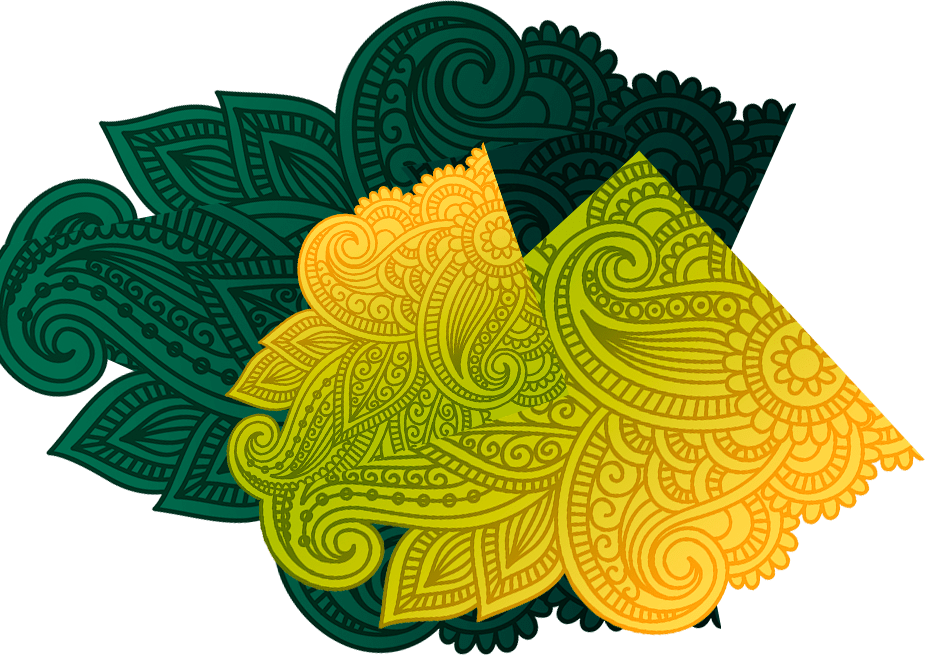
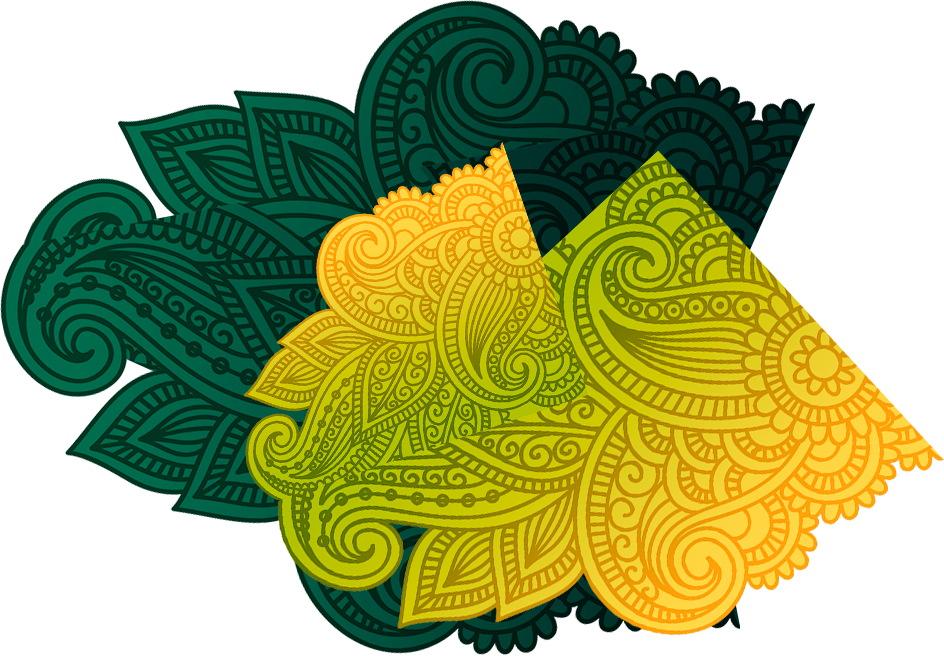
visualization update

diff --git a/development/css/main.css b/development/css/main.css
@@ -58,6 +58,8 @@ section {
 	left: 0;
 	width: 100%;
 	height: 1080px;
+	min-height: 100vh;
+	max-height: 1125px;
 	overflow: hidden;
 }
 
@@ -152,12 +154,13 @@ section {
 	width: 1920px;
 	height: 55%;
 	min-width: 100%;
-	background: url(../img/ft.png) center top no-repeat;
+	background: url(../img/ft.png) center bottom no-repeat;
 	background-size: 100%;
 }
 
 .main {
 	background: url(../img/container.png) center no-repeat;
+	background-size: auto 100%;
 }
 
 #container {
@@ -275,15 +278,17 @@ section {
 }
 .publication .image {
 	position: relative;
+	display: inline-block;
 }
 .publication .image:before {
 	content: '';
 	position: absolute;
-	top: -105px;
+	top: -25%;
 	right: 0;
-	width: 929px;
-	height: 656px;
-	background: url(../img/image-before.png) center no-repeat;
+	width: 150%;
+    height: 150%;
+    background: url(../img/image-before.png) center no-repeat;
+    background-size: 100% 100%;
 }
 .publication img {
 	position: relative;
@@ -293,10 +298,11 @@ section {
 	content: '';
 	position: absolute;
 	bottom: -10px;
-    left: -80px;
-	width: 321px;
-	height: 163px;
-	background: url(../img/image-after.png) center no-repeat;
+	left: -15%;
+    width: 60%;
+    height: 40%;
+    background: url(../img/image-after.png) center no-repeat;
+    background-size: 100% 100%;
 	z-index: 1;
 }
 
@@ -537,7 +543,7 @@ a:hover{
 	z-index: 99;
 }
 .child-page-content .container{
-    padding: 65px;
+    padding: 65px 95px;
 	background: #fff;
 }
 
@@ -1075,12 +1081,9 @@ button:focus{
 	text-align: center;
 }
 
-.nav-1 li:first-child {
-	position: relative;
-}
 .title {
 	position: absolute;
-	top: 65px;
+	top: 95px;
 	left: 0;
 	opacity: 0;
 	z-index: -1;
@@ -1099,10 +1102,6 @@ button:focus{
 .title i {
     display: inline-block;
 	width: 100%;
-}
-.nav-1 li:first-child:hover .title {
-	opacity: 1;
-	z-index: 1;
 }
 
 .position-canvas__img{

diff --git a/public/css/main.min.css b/public/css/main.min.css
@@ -59,6 +59,8 @@ section {
 	left: 0;
 	width: 100%;
 	height: 1080px;
+	min-height: 100vh;
+	max-height: 1125px;
 	overflow: hidden;
 }
 
@@ -161,12 +163,13 @@ section {
 	width: 1920px;
 	height: 55%;
 	min-width: 100%;
-	background: url(../img/ft.png) center top no-repeat;
+	background: url(../img/ft.png) center bottom no-repeat;
 	background-size: 100%;
 }
 
 .main {
 	background: url(../img/container.png) center no-repeat;
+	background-size: auto 100%;
 }
 
 #container {
@@ -297,15 +300,17 @@ section {
 }
 .publication .image {
 	position: relative;
+	display: inline-block;
 }
 .publication .image:before {
 	content: '';
 	position: absolute;
-	top: -105px;
+	top: -25%;
 	right: 0;
-	width: 929px;
-	height: 656px;
-	background: url(../img/image-before.png) center no-repeat;
+	width: 150%;
+    height: 150%;
+    background: url(../img/image-before.png) center no-repeat;
+    background-size: 100% 100%;
 }
 .publication img {
 	position: relative;
@@ -315,10 +320,11 @@ section {
 	content: '';
 	position: absolute;
 	bottom: -10px;
-    left: -80px;
-	width: 321px;
-	height: 163px;
-	background: url(../img/image-after.png) center no-repeat;
+	left: -15%;
+    width: 60%;
+    height: 40%;
+    background: url(../img/image-after.png) center no-repeat;
+    background-size: 100% 100%;
 	z-index: 1;
 }
 
@@ -563,7 +569,7 @@ a:hover{
 	z-index: 99;
 }
 .child-page-content .container{
-    padding: 65px;
+    padding: 65px 95px;
 	background: #fff;
 }
 
@@ -1101,12 +1107,9 @@ button:focus{
 	text-align: center;
 }
 
-.nav-1 li:first-child {
-	position: relative;
-}
 .title {
 	position: absolute;
-	top: 65px;
+	top: 95px;
 	left: 0;
 	opacity: 0;
 	z-index: -1;
@@ -1126,10 +1129,6 @@ button:focus{
 .title i {
     display: inline-block;
 	width: 100%;
-}
-.nav-1 li:first-child:hover .title {
-	opacity: 1;
-	z-index: 1;
 }
 
 .position-canvas__img{

diff --git a/development/css/responsive.css b/development/css/responsive.css
@@ -40,6 +40,8 @@
 		position: relative;
 		display: inline-block;
 		float: right;
+		height: 100%!important;
+		line-height: 50%!important;
 		padding: 0;
 		background: none;
 		border: 0;
@@ -68,6 +70,8 @@
 	}
 	.nav-mobile a {
 		color: #292929;
+		height: 100%!important;
+		line-height: 50%!important;
 	}
 	.help {
     	z-index: 99;
@@ -88,6 +92,10 @@
 	}
 }
 @media screen and (max-width: 900px) {
+	body {
+		background: #1c552d url(../img/bg.png) repeat-y;
+		background-size: 100%;
+	}
 	.hd {
 		height: 150px;
 		background-size: 80px!important;
@@ -100,6 +108,7 @@
 	}	
 	section {
 		height: auto;
+		max-height: 9999px;
 	}	
 	.buttons .btn {
 		margin-bottom: 15px;
@@ -137,12 +146,15 @@
 		z-index: 99;
 	}
 	.child-page-content .container {
-		padding: 30px;
+		padding: 30px 15px;
 	}
 	.child-page-content__text{
 		overflow-x: visible;
 		overflow-y: visible;
 		max-height: 9999px;
+	}
+	.scroll-line {
+		padding: 0;
 	}
 	.prize-item {
 		text-align: center;

diff --git a/public/css/responsive.min.css b/public/css/responsive.min.css
@@ -40,6 +40,8 @@
 		position: relative;
 		display: inline-block;
 		float: right;
+		height: 100%!important;
+		line-height: 50%!important;
 		padding: 0;
 		background: none;
 		border: 0;
@@ -70,6 +72,8 @@
 	}
 	.nav-mobile a {
 		color: #292929;
+		height: 100%!important;
+		line-height: 50%!important;
 	}
 	.help {
     	z-index: 99;
@@ -90,6 +94,10 @@
 	}
 }
 @media screen and (max-width: 900px) {
+	body {
+		background: #1c552d url(../img/bg.png) repeat-y;
+		background-size: 100%;
+	}
 	.hd {
 		height: 150px;
 		background-size: 80px!important;
@@ -102,6 +110,7 @@
 	}	
 	section {
 		height: auto;
+		max-height: 9999px;
 	}	
 	.buttons .btn {
 		margin-bottom: 15px;
@@ -139,12 +148,15 @@
 		z-index: 99;
 	}
 	.child-page-content .container {
-		padding: 30px;
+		padding: 30px 15px;
 	}
 	.child-page-content__text{
 		overflow-x: visible;
 		overflow-y: visible;
 		max-height: 9999px;
+	}
+	.scroll-line {
+		padding: 0;
 	}
 	.prize-item {
 		text-align: center;

diff --git a/public/js/common.min.js b/public/js/common.min.js
@@ -59,10 +59,25 @@ $(document).ready(function(){
 
     });
 
+	setTimeout(function() {
     $(".header li a, .burger").css({height: hh, lineHeight: hh + "px"});
     if ($(window).width() > 800) {
         $("section").css({height: bh});
     }
+	}, 100);
+	
+	setTimeout(function() {
+		var title = $("#title").offset().left;
+		$(".title").css({left: title});
+	}, 100);
+	$("#title").hover(function() {
+		if ($(this).is(":hover")) {
+			$(".title").css({zIndex: "99999", opacity: "1"});
+		} else {
+			$(".title").css({zIndex: "-1", opacity: "0"});
+		}
+	});
+	$("body:not(:has(.tracking))").attr("class", "index-2");
 });
 
 $(window).resize(function () {

diff --git a/development/js/common.js b/development/js/common.js
@@ -63,6 +63,19 @@ $(document).ready(function(){
     if ($(window).width() > 800) {
         $("section").css({height: bh});
     }
+	
+	setTimeout(function() {
+		var title = $("#title").offset().left;
+		$(".title").css({left: title});
+	}, 100);
+	$("#title").hover(function() {
+		if ($(this).is(":hover")) {
+			$(".title").css({zIndex: "99999", opacity: "1"});
+		} else {
+			$(".title").css({zIndex: "-1", opacity: "0"});
+		}
+	});
+	$("body:not(:has(.tracking))").attr("class", "index-2");
 });
 
 $(window).resize(function () {

diff --git a/resources/views/layouts/master.blade.php b/resources/views/layouts/master.blade.php
@@ -71,6 +71,15 @@
 		<img id="preloader" src="/img/preloader.gif" alt="" />
 	</div>
 	<section>
+		<div class="title">
+			<h3>ДЛЯ УЧАСТИЯ:</h3>
+			<ol>
+				<li>Сделай селфи в этом приложении</li>
+				<li>Размести селфи на странице Facebook, VK или Instagram</li>
+				<li>Подпишись на нашу страничку и следи за розыгрышем!</li>
+			</ol>
+			<i><small>*В акции участвуют только пользователи с открытыми аккаунтами в выбранной соцсети, выполнившие все условия акции.</small></i>
+		</div>
 		<div class="header">
 			<div class="hd hd-left"></div>
 			<div class="hd hd-right"></div>
@@ -80,16 +89,7 @@
 						<div class="row">
 							<ul class="nav-1">
 								<li>
-									<a href="{{action('HomeController@termsOfAction')}}" title="Условия акции">Условия</a>
-									<div class="title">
-										<h3>ДЛЯ УЧАСТИЯ:</h3>
-										<ol>
-											<li>Сделай селфи в этом приложении</li>
-											<li>Размести селфи на странице Facebook, VK или Instagram</li>
-											<li>Подпишись на нашу страничку и следи за розыгрышем!</li>
-										</ol>
-										<i><small>*В акции участвуют только пользователи с открытыми аккаунтами в выбранной соцсети, выполнившие все условия акции.</small></i>
-									</div>
+									<a id="title" href="{{action('HomeController@termsOfAction')}}" title="">Условия</a>
 								</li>
 								<li><a href="{{action('HomeController@userAgreement')}}" title="">Пользовательское соглашение</a></li>
 							</ul>
@@ -102,7 +102,7 @@
 						<button class="burger">☰</button>
 						<div class="menu">
 							<ul class="nav-mobile">
-								<li><a href="{{action('HomeController@termsOfAction')}}" title="Условия акции">Условия</a></li>
+								<li><a href="{{action('HomeController@termsOfAction')}}" title="">Условия</a></li>
 								<li><a href="{{action('HomeController@userAgreement')}}" title="">Пользовательское соглашение</a></li>
 								<li><a href="{{action('HomeController@winners')}}" title="" class="icon icon-2">Победители</a></li>
 								<li><a href="{{action('HomeController@prizes')}}" title="" class="icon icon-1">Призы</a></li>
